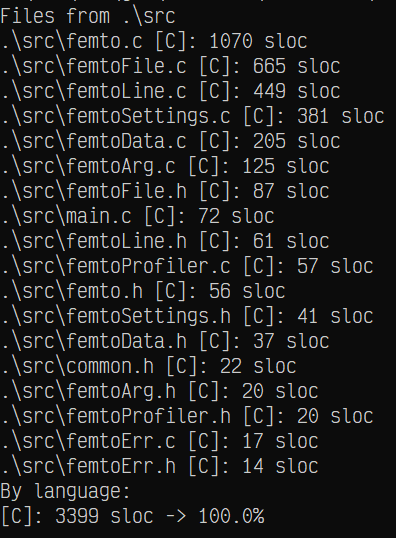
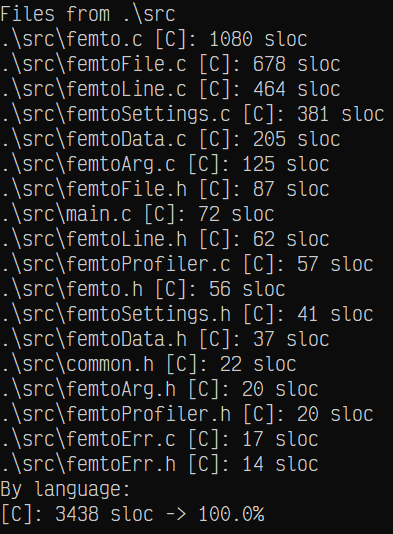
Add placeholders

Changed region(s): [[0.0, 0.0, 0.9771, 0.9888], [0.4275, 0.9288, 0.6718, 0.9888]]

diff --git a/src/femto.c b/src/femto.c
@@ -491,7 +491,19 @@ bool femto_loop(femtoData_t * restrict peditor)
 			}
 			else if ((key == sac_Ctrl_O) && !boolGet(prevkeybuffer, sac_Ctrl_O))
 			{
-				swprintf_s(tempstr, MAX_STATUS, L"Ctrl+O");
+				swprintf_s(tempstr, MAX_STATUS, L"Open :");
+				femtoData_statusDraw(peditor, tempstr, NULL);
+
+				wchar_t inp[MAX_STATUS];
+				if (femto_askInput(peditor, inp, MAX_STATUS))
+				{
+					// Try to create new tab and open file
+					swprintf_s(tempstr, MAX_STATUS, L"Opened %s successfully!", inp);
+				}
+				else
+				{
+					swprintf_s(tempstr, MAX_STATUS, L"Opening canceled by user");
+				}
 			}
 			else if ((key == sac_Ctrl_W) && !boolGet(prevkeybuffer, sac_Ctrl_W))
 			{

diff --git a/README.md b/README.md
@@ -12,7 +12,7 @@ It is also written in vanilla C & Win32 Console API - it's designed to be used s
 It has been compiled with MinGW GCC.
 
 Currently, my other tool [slocWin32](https://github.com/makuke1234/slocWin32)
-reports ~3400 source code lines (excluding whitespace, comments & [jsonlite2](https://github.com/makuke1234/jsonlite2) library):
+reports ~3500 source code lines (excluding whitespace, comments & [jsonlite2](https://github.com/makuke1234/jsonlite2) library):
 
 ![SLOC](./images/sloc.png)
 
@@ -150,7 +150,7 @@ reports ~3400 source code lines (excluding whitespace, comments & [jsonlite2](ht
 
 # Changelog
 
-* 1.5 (planned)
+* 1.6 (planned)
     * [ ] Practical multi-file support
     * [ ] Search support, also search result highlighting
     * [ ] Syntax highlighting, supported languages:
@@ -160,6 +160,8 @@ reports ~3400 source code lines (excluding whitespace, comments & [jsonlite2](ht
     * [ ] Proper text copying/pasting support
         * *Copying is already implicitly supported by the console itself, although limited to only 1 screenbuffer at a time*
     * [ ] 'Raw editing'/'saving later to a file' support
+* 1.5
+    * [x] Asks for user input on open & save as
     * [x] User input support on the last line of the editor
     * [x] Fix auto-indentation bug, inserts too many tabs
     * [x] Fix backwards tabbing (space removal)
